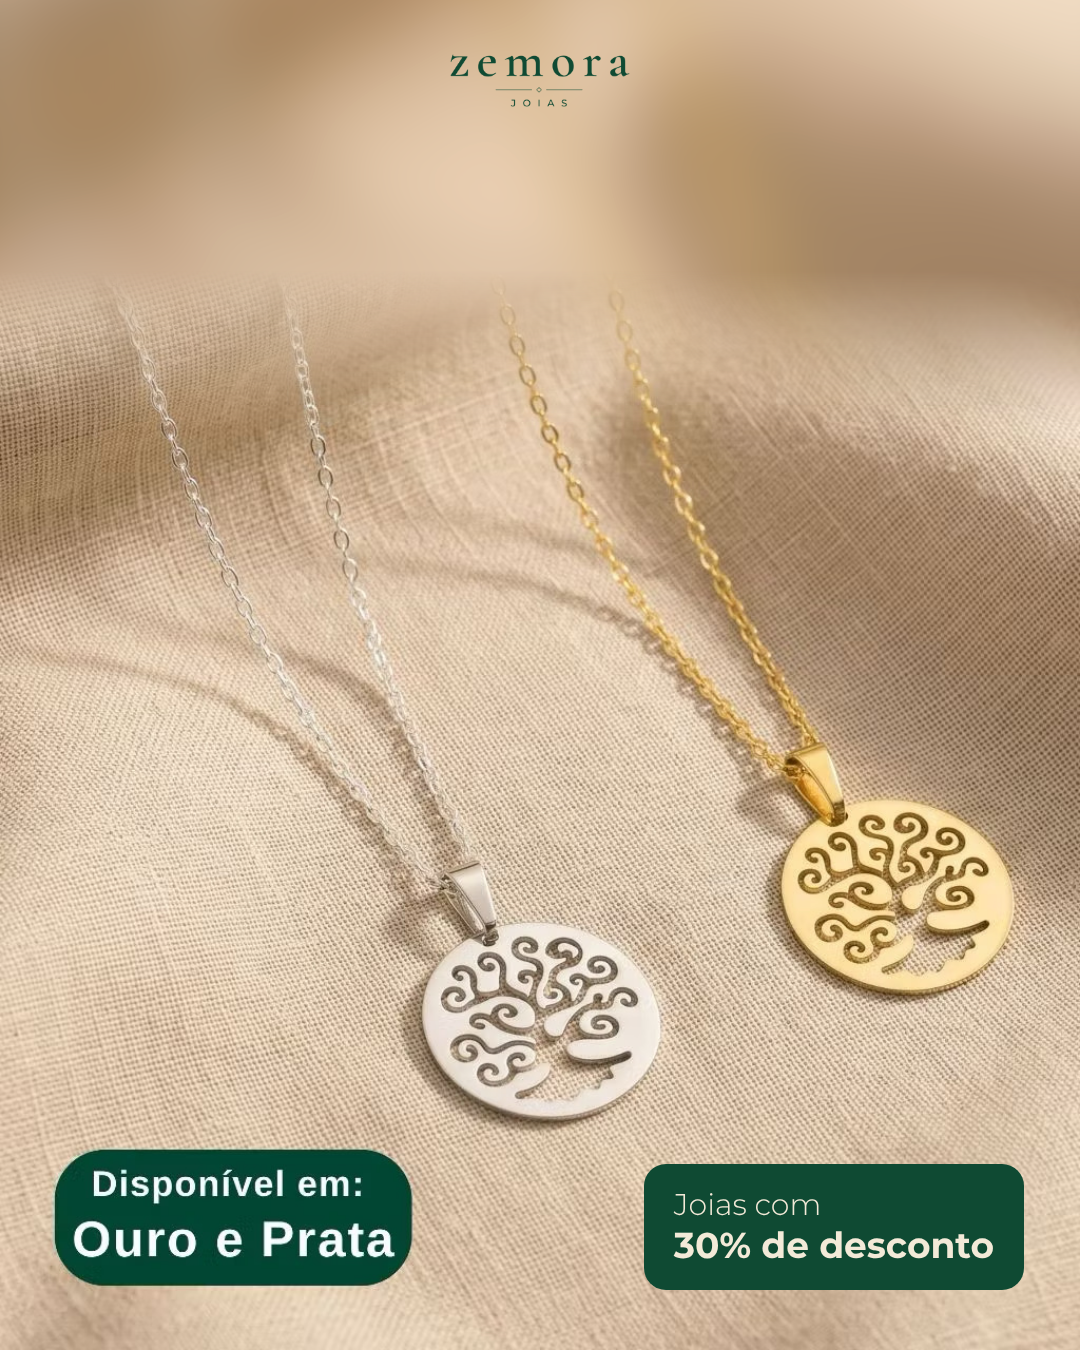
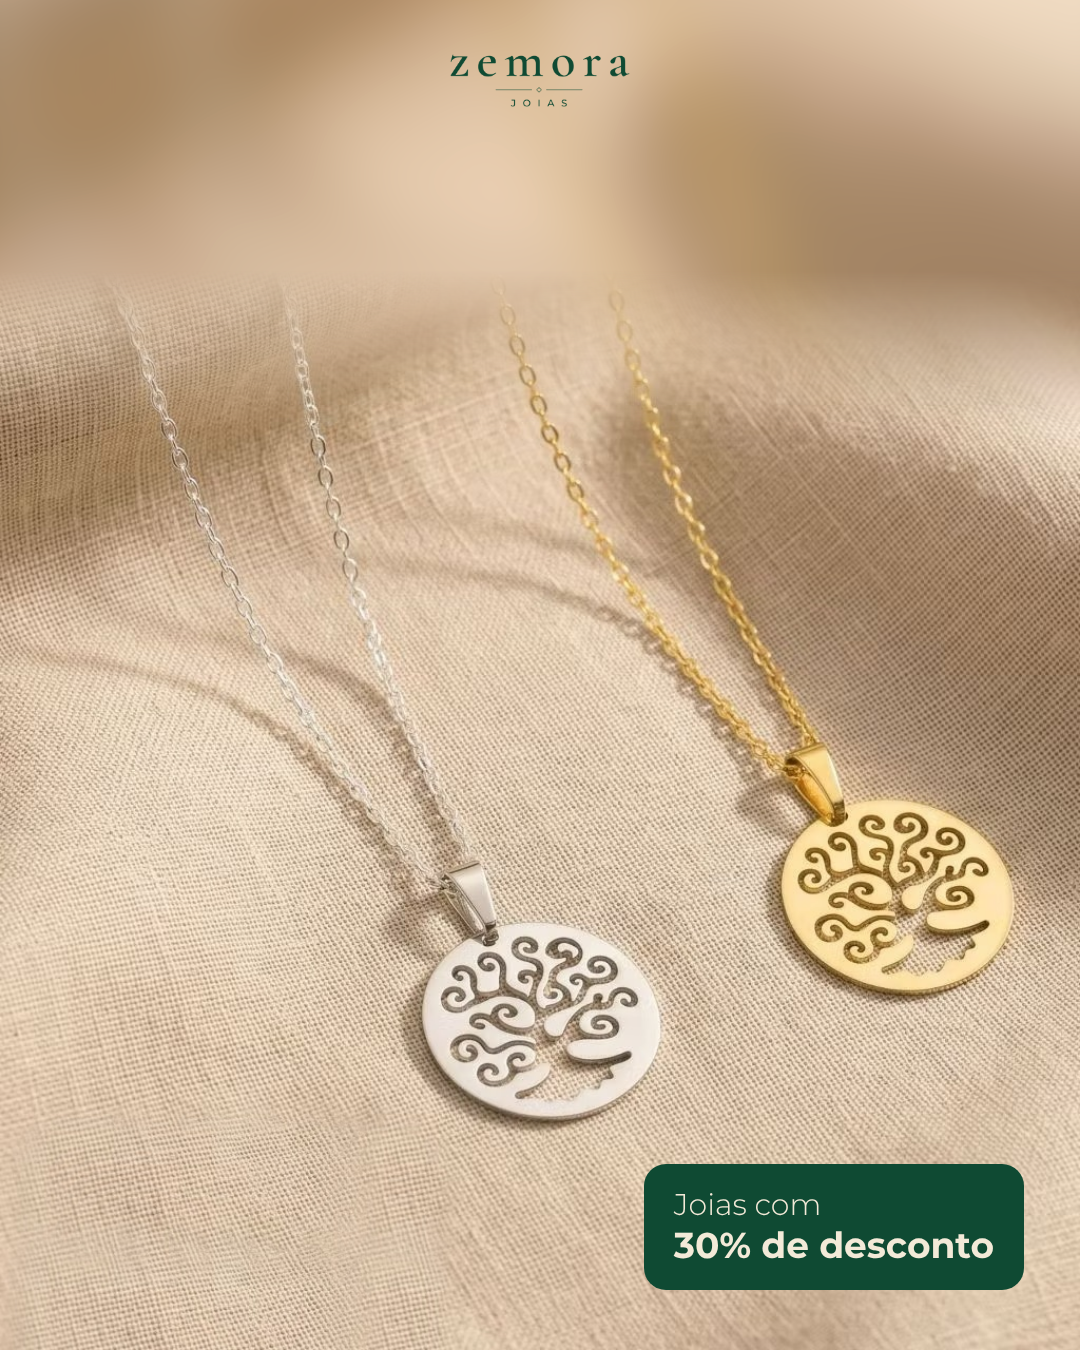
Último carrossel: remove selo 'Ouro e Prata' da foto do card 4
Claude-Session: https://claude.ai/code/session_01Ds4o6DPNY229NefAqtX4RB

Changed region(s): [[0.0, 0.84, 0.4278, 1.0]]

diff --git a/cards/render-carrossel.js b/cards/render-carrossel.js
@@ -33,7 +33,7 @@ const sets={dp:[
  {n:1,logo:'logo-zemora-verde.png',foto:'bf6-pescoco.jpg',pos:'50% 35%',v:'bottom:110px',ts:110,body:`<h1 class="dark thin">Black Friday<br><b>Zemora</b></h1><div class="sub thin-sub"><span>de 23 a 28 de novembro</span></div>`},
  {n:2,logo:'logo-zemora-verde.png',foto:'bf6-coracao.jpg',pos:'50% 50%',v:'top:0',ts:0,body:`<div class=\"corner\">Joias com<br><b>30% de desconto</b></div>`},
  {n:3,logo:'logo-zemora-verde.png',foto:'bf6-argolas.jpg',pos:'50% 50%',v:'top:0',ts:0,body:`<div class=\"corner\">Joias com<br><b>30% de desconto</b></div>`},
- {n:4,logo:'logo-zemora-verde.png',foto:'bf6-arvore.jpg',pos:'50% 50%',img:'filter:blur(30px) brightness(1.02);transform:scale(1.15)',v:'top:0',ts:0,body:`<div style="position:fixed;left:0;bottom:0;width:1080px;height:1080px;background:url(bf6-arvore.jpg) center/cover;-webkit-mask-image:linear-gradient(to bottom,transparent 0,#000 160px)"></div><div class=\"corner\">Joias com<br><b>30% de desconto</b></div>`},
+ {n:4,logo:'logo-zemora-verde.png',foto:'bf6-arvore-limpa.jpg',pos:'50% 50%',img:'filter:blur(30px) brightness(1.02);transform:scale(1.15)',v:'top:0',ts:0,body:`<div style="position:fixed;left:0;bottom:0;width:1080px;height:1080px;background:url(bf6-arvore-limpa.jpg) center/cover;-webkit-mask-image:linear-gradient(to bottom,transparent 0,#000 160px)"></div><div class=\"corner\">Joias com<br><b>30% de desconto</b></div>`},
  ]};
 const set=process.argv[3]||'dp';const prefix={dp:'zemora-dourado-prata',ac:'zemora-acessorios',bf6:'zemora-bf-ofertas',precos:'zemora-precos',final:'zemora-bf-final'}[set];const cards=sets[set];
 (async()=>{const b=await chromium.launch();const p=await b.newPage({viewport:{width:1080,height:1350}});
